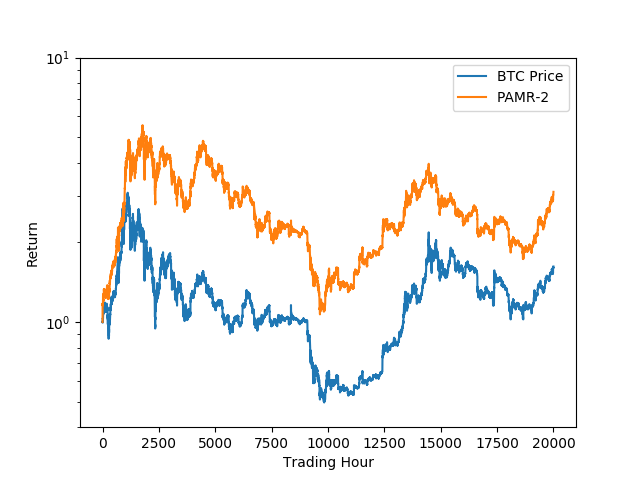
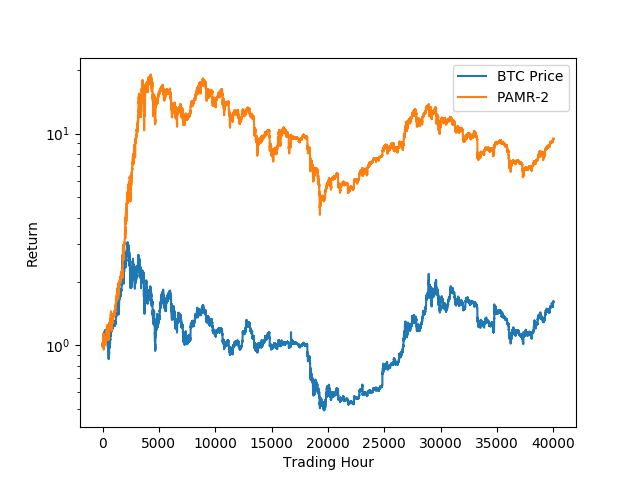
Error in PAMR alg

diff --git a/get_candles.py b/get_candles.py
@@ -10,8 +10,8 @@ import requests, json, sqlite3, datetime
 
 #MARKETS = ['BTCUSDT', 'ETHBTC', 'BNBBTC', 'EOSBTC']
 MARKETS = ['BTCUSDT', 'ETHBTC', 'EOSBTC', 'LTCBTC', 'BNBBTC', 'XRPBTC', 'BCHBTC']
-START_DATE = datetime.datetime(year=2017, month=10, day=1)
-N = 100
+START_DATE = datetime.datetime(year=2017, month=11, day=1)
+N = 1000
 INTERVAL = '5m'
 INTERVALS = {
 			 '1m': 60 * 1000,
@@ -63,7 +63,7 @@ def main():
 
 
 	#dicts to hold data
-	interval_data = {time: {market: [] for market in MARKETS} for time in times if time < datetime.datetime.now().timestamp() * 1000 + INTERVALS[INTERVAL]}
+	interval_data = {time: {market: [] for market in MARKETS} for time in times if time < datetime.datetime.now().timestamp() * 1000 + 5 * INTERVALS[INTERVAL]}
 	initial_values = {}
 
 	for market in MARKETS:
@@ -94,6 +94,8 @@ def main():
 			if market not in initial_values:
 				if len(candles) > 0:
 					initial_values[market] = candles[0][1:]
+				else:
+					print('length of ' + market + '0')
 
 
 

diff --git a/PAMR.py b/PAMR.py
@@ -55,6 +55,8 @@ class PAMR:
 			previous_portfolio = np.array(self.portfolio)
 			previous_value = value
 
+			self.portfolio =  self.portfolio * np.array(price_changes) / np.sum(self.portfolio * np.array(price_changes))
+
 			value *= np.sum(self.portfolio * np.array(price_changes))
 			self.new_weights_PAMR(price_changes)
 			traded_volume = np.sum(np.abs(self.portfolio - previous_portfolio))
@@ -146,7 +148,7 @@ def main():
 	plt.figure(0)
 	plt.plot(np.array([p[best_performing] for p in prices]) / prices[0][best_performing], label=currencies[best_performing + 1] +' Price')
 
-	portfolio = PAMR(initial_weights, 1.25, 0.00072187, 0.00075)
+	portfolio = PAMR(initial_weights, 0.8, 10, 0.00075)
 
 	values, weights, returns = portfolio.run(price_changes)
 	#plt.plot(np.cumprod([p[2] for p in price_changes]))
